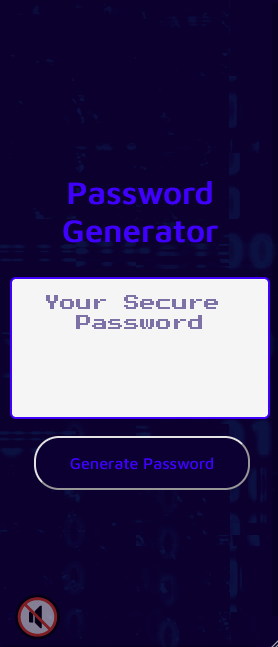
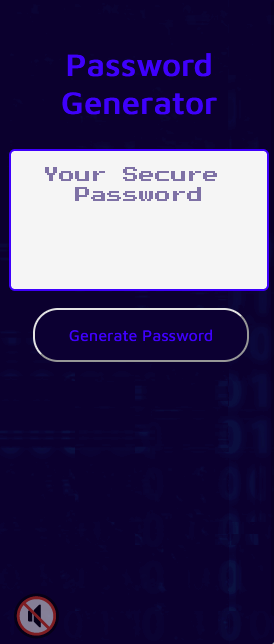
applied align-items: flex-start for smaller screens + updated presentation image

diff --git a/assets/css/style.css b/assets/css/style.css
@@ -59,7 +59,7 @@ html, body {
 body {
   display: flex;
   justify-content: center;
-  align-items: center;
+  align-items: flex-start;
   font-family: body;
   background-image: url("../images/bg.gif");
   background-color: var(--primary-color);
@@ -164,6 +164,12 @@ textarea {
         left: 20px;
         bottom: 25px;
     }
+}
+
+@media screen and (min-width: 768px) {
+    body {
+        align-items: center;
+      }
 }
 
 @media screen and (min-width: 1920px) {
